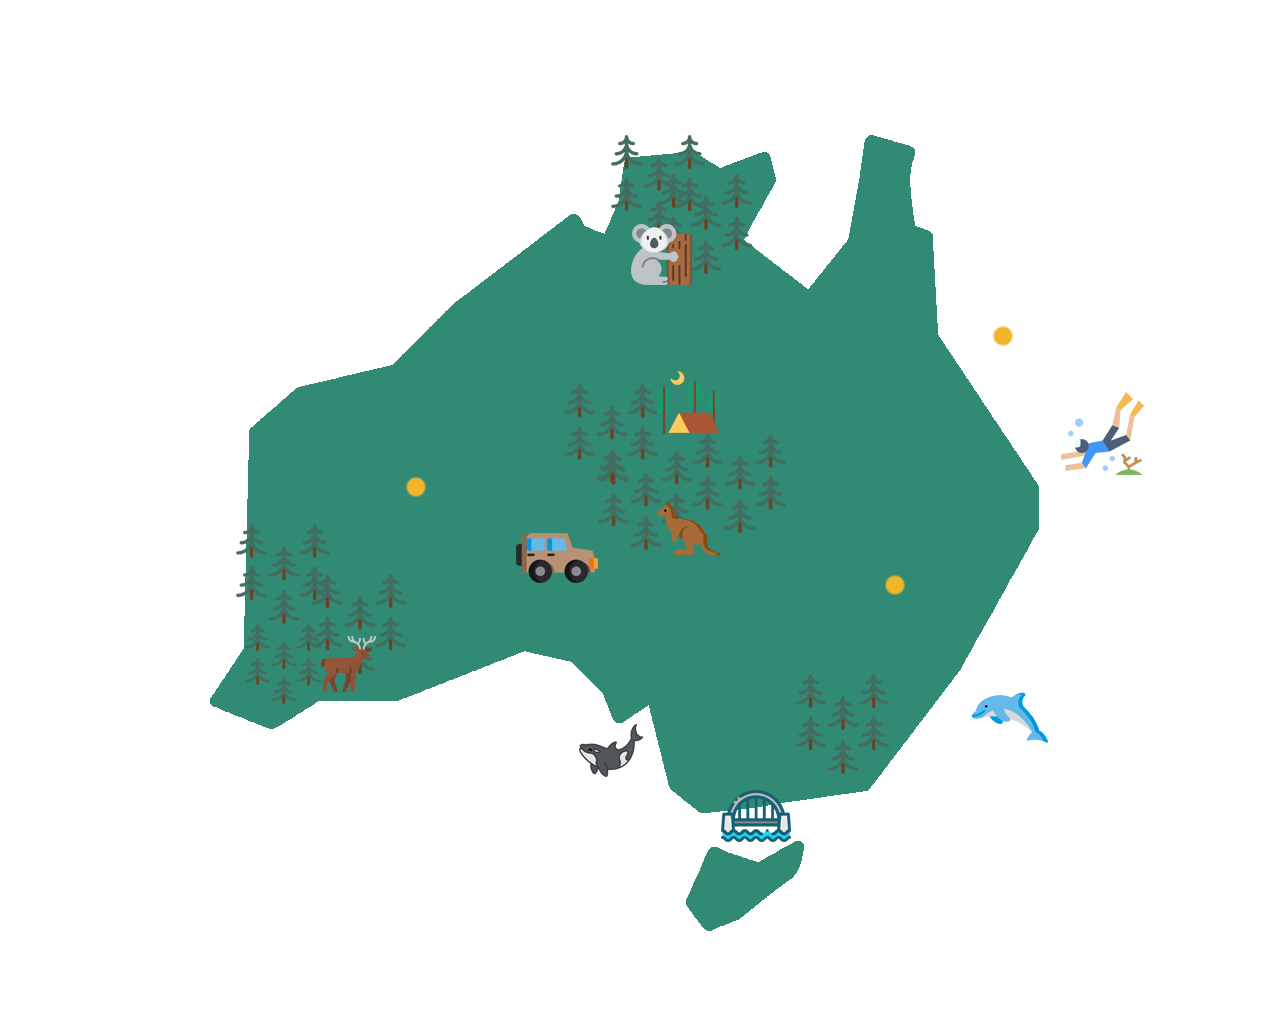
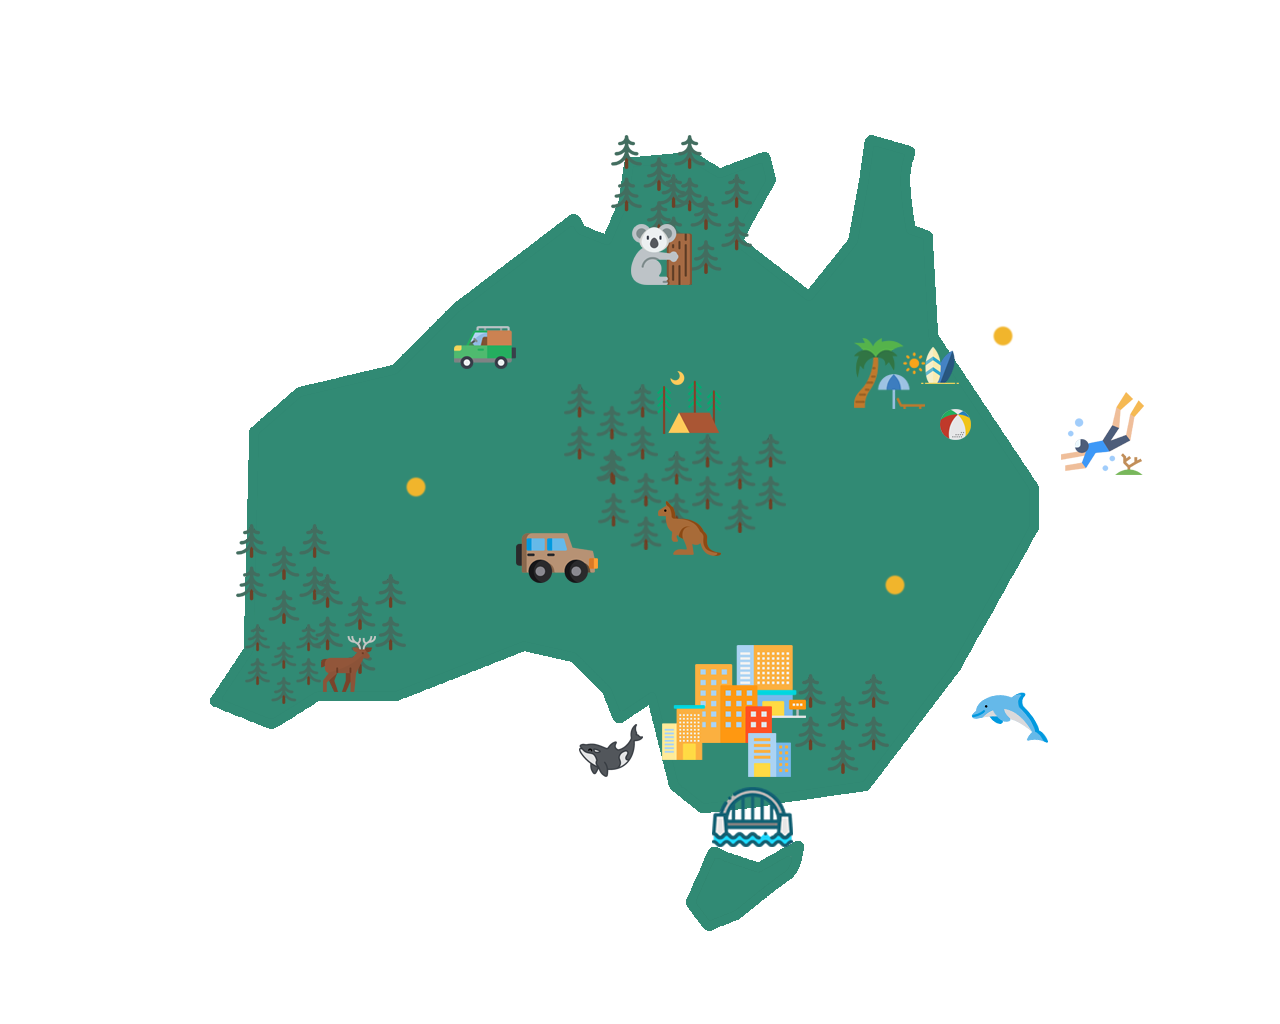
tt

diff --git a/css/worldmap.css b/css/worldmap.css
@@ -468,7 +468,7 @@ body{
 }
 
 #island:hover{
-	background-image: url(../image/fishing.png);
+	background-image: url(../image/fishing2.png);
 }
 
 #island:active{
@@ -488,6 +488,65 @@ body{
 	position: relative;
 }
 
+#opera{
+	width: 10%;
+	height: 8vw;
+	background-image: url(../image/sydney.png);
+	background-size: 100%;
+	background-repeat: no-repeat;
+	background-position: center;
+	position: absolute;
+	margin-left: 62%;
+	margin-top: 30%;
+}
+
+#opera:hover{
+	background-image: url(../image/sydney2.png);
+}
+
+#opera:active{
+	background-size: 90%;
+}
+
+#reef{
+	width: 10%;
+	height: 8vw;
+	background-image: url(../image/coral.png);
+	background-size: 100%;
+	background-repeat: no-repeat;
+	background-position: center;
+	position: absolute;
+	margin-left: 71%;
+	margin-top: 15%;
+}
+
+#reef:hover{
+	background-image: url(../image/coral2.png);
+}
+
+#reef:active{
+	background-size: 90%;
+}
+
+#falls{
+	width: 8%;
+	height: 8vw;
+	background-image: url(../image/fall.png);
+	background-size: 100%;
+	background-repeat: no-repeat;
+	background-position: center;
+	position: absolute;
+	margin-left: 30%;
+	margin-top: 25%;
+}
+
+#falls:hover{
+	background-image: url(../image/fall2.png);
+}
+
+#falls:active{
+	background-size: 90%;
+}
 /* europe content */
 #europe-container{
 	width: 75%;

diff --git a/html/antarctica.html b/html/antarctica.html
@@ -134,7 +134,7 @@
 	<h1 id="each-continental-main-page-head">Antarctica</h1>
 	<div id="antarctica-container">
 		<div id="ice"></div>
-		<div id="fishing"></div>
+		<div id="island"></div>
 
 	</div>
 
